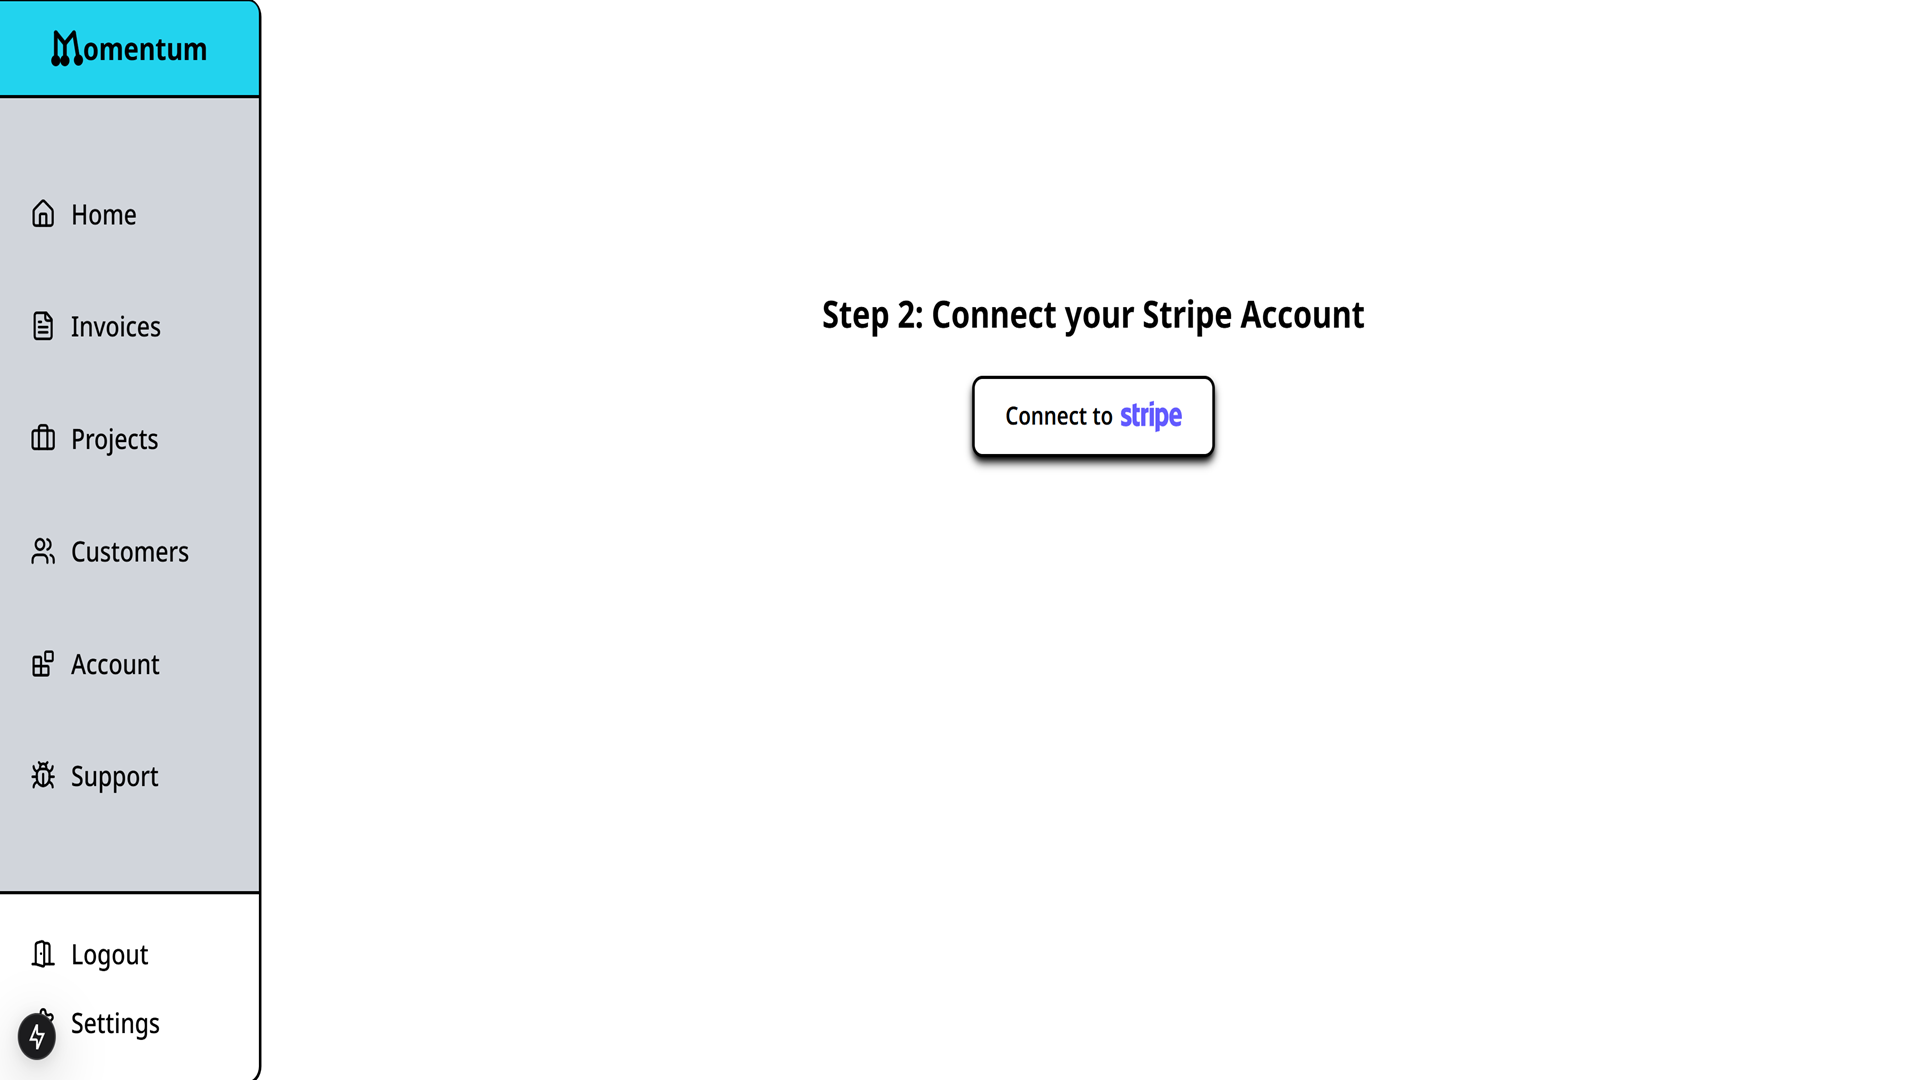
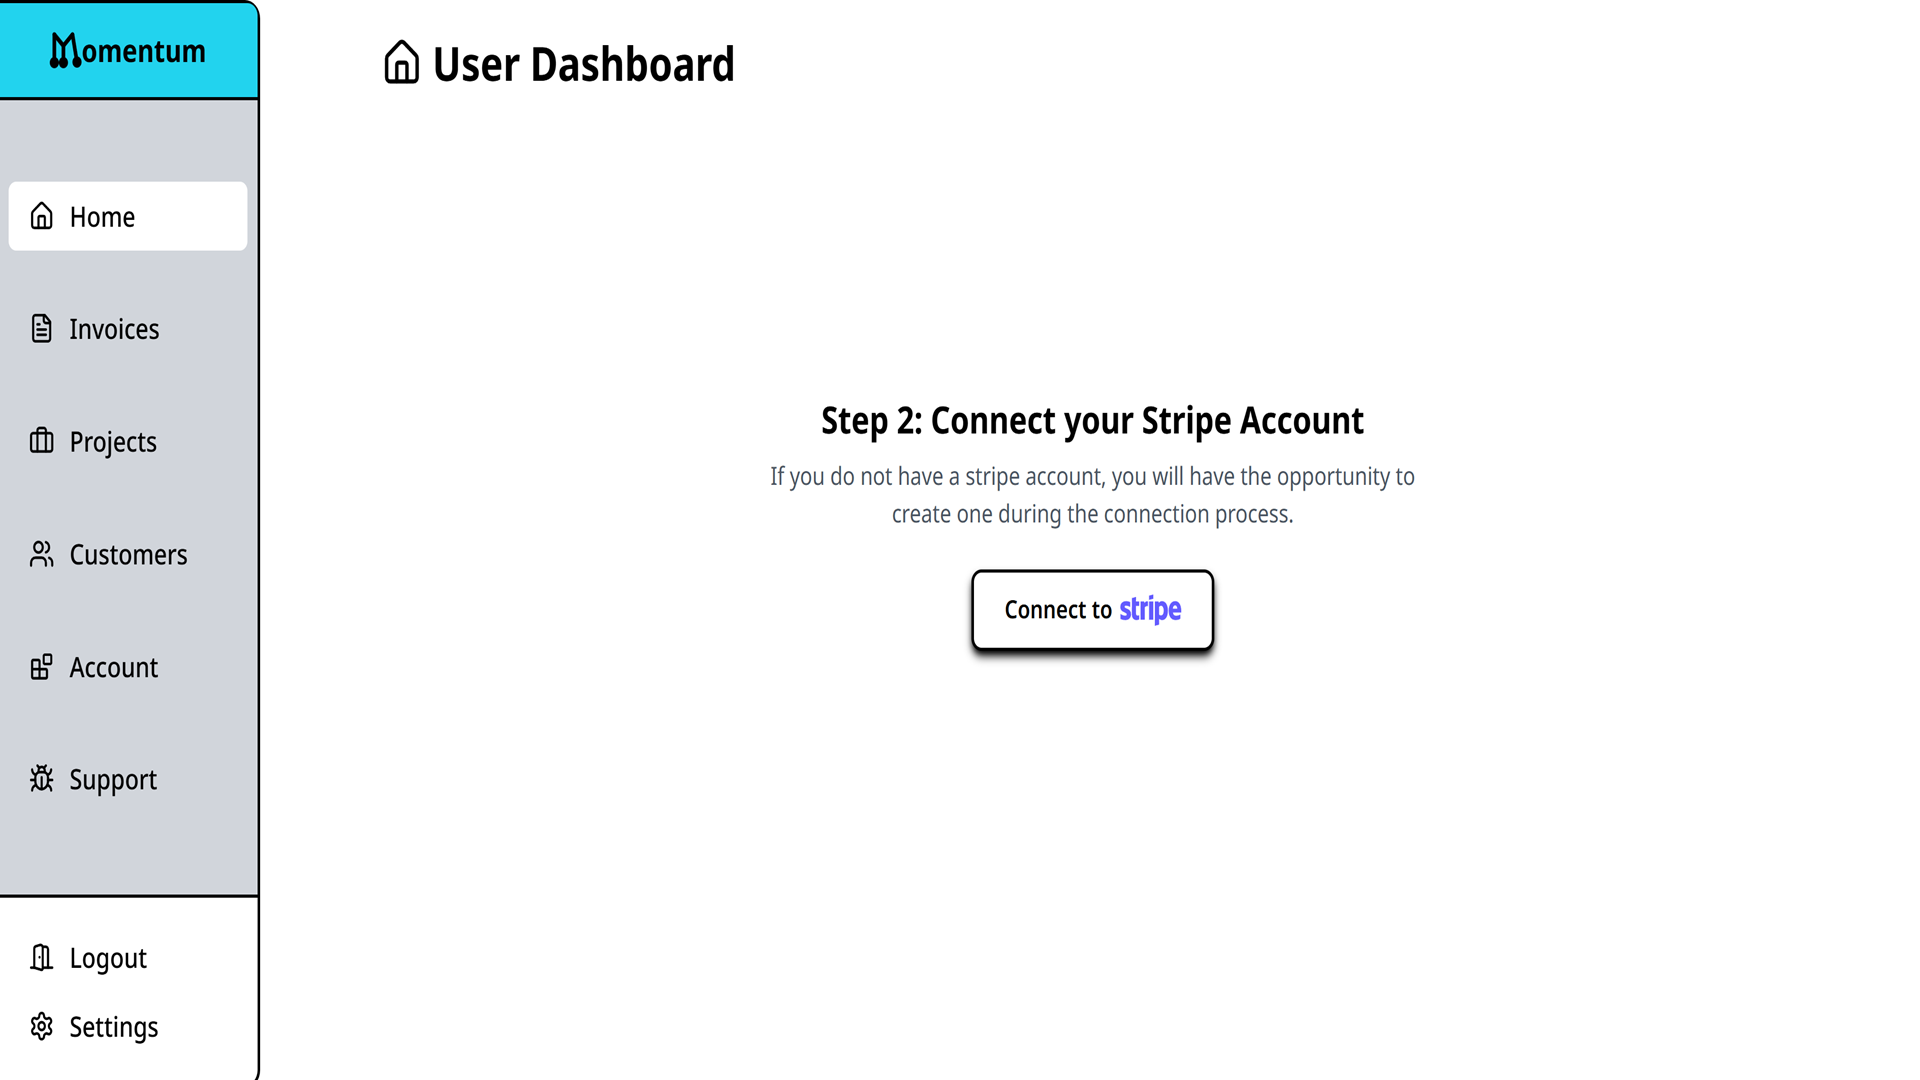
ow it works section, updated images.

diff --git a/src/components/how-it-works.jsx b/src/components/how-it-works.jsx
@@ -1,0 +1,86 @@
+import Image from "next/image";
+
+export default function MomentumInfographic() {
+  return (
+    <div
+      id="howitworks"
+      className="relative pb-6 min-h-screen flex flex-col items-center justify-center bg-center bg-fixed bg-cover bg-no-repeat border-t-2 border-black px-5"
+      style={{
+        backgroundImage: 'url("/image-2.png")',
+        backgroundPosition: "center 25%",
+      }}
+    >
+      <div className="absolute inset-0 bg-white bg-opacity-95"></div>
+      <div className="relative flex flex-col py-24 z-40 text-left max-w-6xl p-8 px-0">
+        <div className="section-heading w-full mx-auto flex flex-col">
+          <div className="tag mx-auto justify-center w-auto text-destructive text-sm sm:text-md md:text-lg lg:text-xl">
+            Getting Started
+          </div>
+          <h2 className="section-title mt-5">How It Works</h2>
+          <p className="section-description mt-5">
+            Momentum uses Stripe Connect to securely link your Stripe account.
+            We sync your customers and invoices automatically, so you can manage
+            everything in one place. Don&apos;t have a Stripe account? No
+            problem, you can easily create one during our sign-up process.
+          </p>
+        </div>
+
+        <div className="grid grid-cols-1 sm:grid-cols-2 md:grid-cols-4 gap-8 mt-8">
+          {[
+            {
+              step: 1,
+              title: "Sign Up",
+              description:
+                "Register with Google, GitHub, or Email to get started.",
+              image: "/account-1.png",
+              alt: "Sign Up",
+            },
+            {
+              step: 2,
+              title: "Choose Subscription",
+              description:
+                "Choose to pay monthly or yearly, depending on your needs.",
+              image: "/account-3.png",
+              alt: "Choose Subscription",
+            },
+            {
+              step: 3,
+              title: "Connect Stripe",
+              description:
+                "Link your Stripe account to sync customers and invoices.",
+              image: "/stripe.png",
+              alt: "Connect Stripe",
+            },
+            {
+              step: 4,
+              title: "Projects & Invoices",
+              description:
+                "Create projects, send invoices, and collaborate with clients.",
+              image: "/project.png",
+              alt: "Send Invoices",
+            },
+          ].map(({ step, title, description, image, alt }) => (
+            <div
+              key={step}
+              className="flex flex-col items-center text-center p-6 pt-0 px-0 bg-gray-50 rounded-2xl shadow-lg border-2 border-black"
+            >
+              <div className="flex items-end justify-center ">
+                <Image
+                  width={1920}
+                  height={1080}
+                  src={image}
+                  alt={alt}
+                  className="w-auto h-full rounded-t-xl border-b-2 border-black shadow-sm"
+                />
+              </div>
+              <h3 className="text-xl mt-6 font-semibold text-gray-800 my-2">
+                {title}
+              </h3>
+              <p className="text-gray-600 flex-1 px-5">{description}</p>
+            </div>
+          ))}
+        </div>
+      </div>
+    </div>
+  );
+}

diff --git a/src/app/page.tsx b/src/app/page.tsx
@@ -13,6 +13,7 @@ import FAQ from "../components/page/FAQ";
 import FeaturesSection from "../components/FeaturesSection";
 import ImageGallery from "../components/ImageGallery";
 import Image from "next/image";
+import MomentumInfographic from "../components/how-it-works";
 
 export default function Home() {
   return (
@@ -48,11 +49,11 @@ export default function Home() {
                 href={"/Signup"}
                 className="bg-confirm hover:shadow-lg border-2 border-black hover:shadow-black transition duration-300 ease-in-out text-black text-md sm:text-base md:text-xl font-extrabold flex flex-row gap-2 px-4 sm:px-6 py-3 rounded-lg shadow-md shadow-black items-center"
               >
-                Get Started{" "}
+                Start Now{" "}
                 <ArrowBigRightIcon className="w-4 h-4 sm:w-6 sm:h-6" />
               </Link>
               <Link
-                href="/#features"
+                href="/#howitworks"
                 className="hover:opacity-60 transition duration-300 ease-in-out items-center font-bold flex flex-row gap-2 text-md sm:text-base md:text-xl text-black"
               >
                 Learn more <GraduationCap className="w-4 h-4 sm:w-6 sm:h-6" />
@@ -69,6 +70,7 @@ export default function Home() {
             />
           </div>
         </section>
+        <MomentumInfographic />
         <FeaturesSection />
         <section className="border-t-2 border-black bg-[#EAEEFE]">
           <PriceCard />
@@ -105,7 +107,7 @@ export default function Home() {
                 href={"/Signup"}
                 className="bg-confirm hover:shadow-lg hover:shadow-black transition duration-300 ease-in-out text-black font-bold flex flex-row gap-2 text-xs sm:text-xl px-4 sm:px-6 py-3 rounded-lg shadow-md border-2 border-black shadow-black items-center"
               >
-                Get Started{" "}
+                Start Now{" "}
                 <ArrowBigRightIcon className="w-4 h-4 sm:w-6 sm:h-6" />
               </Link>
               <Link

diff --git a/src/components/user/Dashboard.jsx b/src/components/user/Dashboard.jsx
@@ -180,7 +180,7 @@ export default function Dashboard() {
             </div>
             <div className="flex flex-col gap-5 mt-4 sm:mt-6">
               <div className=" h-full flex flex-col shadow-black mx-auto w-full">
-                {user && userData?.stripeConnected && (
+                {user && !userData?.stripeConnected && (
                   <div className="flex flex-col gap-0">
                     <h3 className="text-2xl font-semibold text-black flex flex-row gap-2 my-auto px-0 sm:px-4 items-center">
                       <Users className="w-6 h-6 sm:w-7 sm:h-7" />
@@ -207,7 +207,7 @@ export default function Dashboard() {
                     )}
                   </div>
                 )}
-                {user && !userData?.stripeConnected && (
+                {user && userData?.stripeConnected && (
                   <div className="flex my-auto justify-center items-center flex-col -mt-24 h-full min-h-screen gap-2">
                     <h2 className="text-2xl max-w-xl w-full mx-auto text-center font-bold">
                       Step 2: Connect your Stripe Account

diff --git a/src/components/landing-page/PriceCard.jsx b/src/components/landing-page/PriceCard.jsx
@@ -11,7 +11,7 @@ const pageData = {
   tag: "Pricing",
   title: "Affordable Plans",
   description:
-    "We offer generous pricing plans to fit any budget. Choose the one that works best for you.",
+    "Generous pricing plans for freelancers, startups, and small businesses. No hidden fees, no surprises.",
 };
 
 // Pricing Data
@@ -54,7 +54,7 @@ export const PriceCard = () => {
       id="price"
       className="relative pb-6 min-h-screen flex flex-col items-center justify-center bg-center bg-fixed bg-cover bg-no-repeat"
       style={{
-        backgroundImage: 'url("/image-2.png")',
+        backgroundImage: 'url("/image-4.png")',
         backgroundPosition: "center 25%",
       }}
     >

diff --git a/src/components/FeaturesSection.jsx b/src/components/FeaturesSection.jsx
@@ -63,8 +63,8 @@ const FeaturesSection = () => {
           </div>
           <h2 className="section-title mt-5">Project Management Suite</h2>
           <p className="section-description mt-5">
-            We provide a comprehensive suite of features to help you keep
-            projects organized, stay on schedule, and get paid.
+            Momentum provides a comprehensive suite of features to help you
+            track project milestones, keep clients up to date, and get paid.
           </p>
         </div>
         <div className="grid grid-cols-1 sm:grid-cols-2 lg:grid-cols-2 gap-12 mt-12">

diff --git a/src/components/landing-page/Header.jsx b/src/components/landing-page/Header.jsx
@@ -14,6 +14,7 @@ const pageData = {
   bannerLinkHref: "/Signup",
   logoHref: "/",
   menuItems: [
+    { text: "About", href: "/#howitworks" },
     { text: "Features", href: "/#features" },
     { text: "Pricing", href: "/#price" },
     { text: "Details", href: "/#details" },
